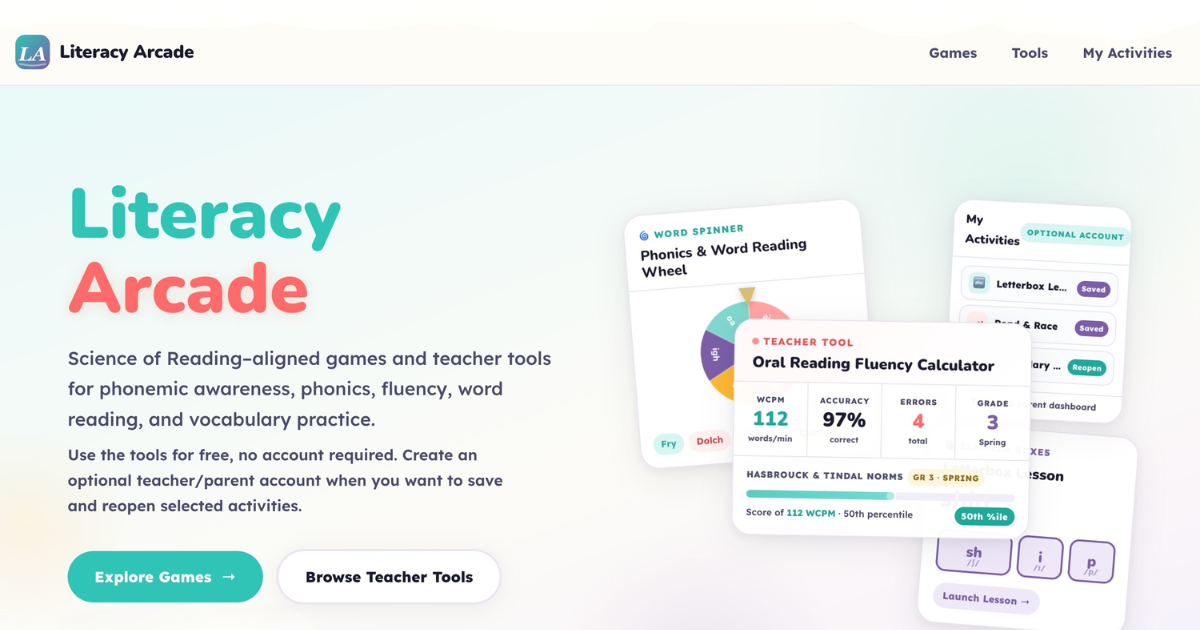
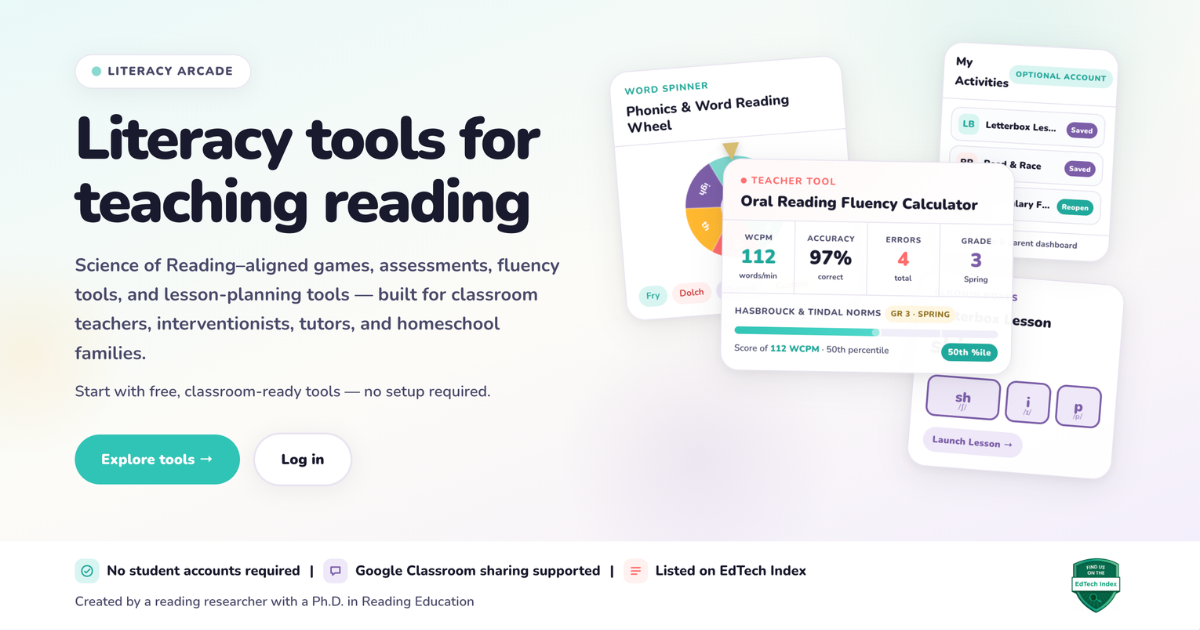
Update homepage copy and OG image

diff --git a/index.html b/index.html
@@ -1133,7 +1133,7 @@
           <div class="hero-inner">
             <span class="page-eyebrow">Literacy Arcade</span>
             <h1 class="hero-title">Literacy tools for teaching reading</h1>
-            <p class="hero-sub">Science of Reading–aligned games, assessments, fluency tools, and lesson-planning tools for K–5 — built for classroom teachers, interventionists, tutors, and homeschool families.</p>
+            <p class="hero-sub">Science of Reading–aligned games, assessments, fluency tools, and lesson-planning tools — built for classroom teachers, interventionists, tutors, and homeschool families.</p>
             <p class="hero-support">Start with free, classroom-ready tools — no setup required.</p>
             <div class="hero-actions" aria-label="Primary homepage actions">
               <a class="btn btn-primary" href="#categories">Explore tools →</a>